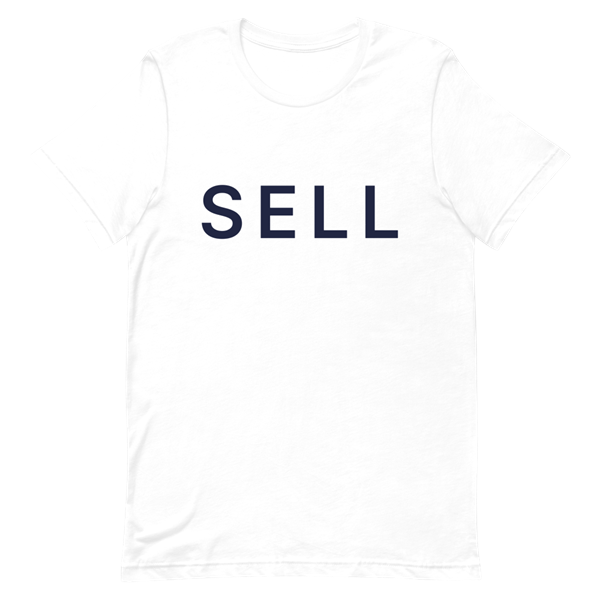
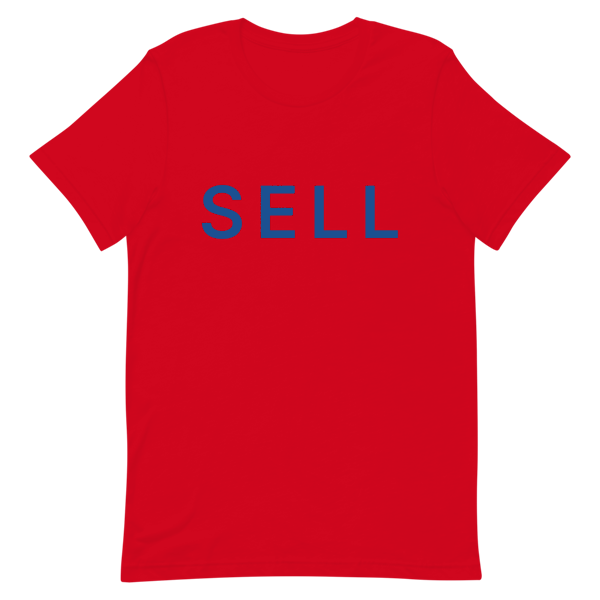
Set New England shirt colors

diff --git a/components/ProductPage.tsx b/components/ProductPage.tsx
@@ -111,7 +111,7 @@ export default function ProductPage({ slug, style }: { slug: string; style: Styl
               <summary>Why SELL</summary>
               <div className="content">
                 Modeled on the shirt Oakland fans wore to the 2023 reverse boycott.{" "}
-                {WHY[style] ?? (team.alternateOf ? `One word in ${printColor} on ${colorLabel(team, style)}.` : team.slug === "nfl-buffalo" && style === "tee" ? "One word in red on royal blue." : team.slug === "nfl-miami" && style === "tee" ? "One word in orange on aqua." : (team.slug === "nfl-cincinnati" || team.slug === "nfl-pittsburgh") && style === "tee" ? "One word in black on your team color." : team.slug === "nfl-cleveland" && style === "tee" ? "One word in orange on Browns brown." : team.slug === "nfl-baltimore" && style === "tee" ? "One word in metallic gold on Ravens purple." : "One word in white on your team colors.")} It says what a lot of {team.market} fans are thinking &mdash; loud enough to be
+                {WHY[style] ?? (team.alternateOf ? `One word in ${printColor} on ${colorLabel(team, style)}.` : team.slug === "nfl-buffalo" && style === "tee" ? "One word in red on royal blue." : team.slug === "nfl-miami" && style === "tee" ? "One word in orange on aqua." : team.slug === "nfl-new-england" && style === "tee" ? "One word in bright red on Patriots navy." : (team.slug === "nfl-cincinnati" || team.slug === "nfl-pittsburgh") && style === "tee" ? "One word in black on your team color." : team.slug === "nfl-cleveland" && style === "tee" ? "One word in orange on Browns brown." : team.slug === "nfl-baltimore" && style === "tee" ? "One word in metallic gold on Ravens purple." : "One word in white on your team colors.")} It says what a lot of {team.market} fans are thinking &mdash; loud enough to be
                 seen from the owner&rsquo;s suite. <Link href="/story" style={{ textDecoration: "underline" }}>Read the story.</Link>
               </div>
             </details>

diff --git a/lib/products.ts b/lib/products.ts
@@ -81,12 +81,14 @@ export function printColorName(team: Team, style: Style): string {
     const original = getTeam(team.alternateOf);
     if (original) {
       if (team.slug === "nfl-miami-alternate-one" && style === "tee") return "Teal";
+      if (team.slug === "nfl-new-england-alternate-one" && style === "tee") return "Nautical Blue";
       return colorName(original, style);
     }
   }
   if (style === "tee") {
     if (team.slug === "nfl-buffalo") return "red";
     if (team.slug === "nfl-miami") return "orange";
+    if (team.slug === "nfl-new-england") return "bright red";
     if (team.slug === "nfl-cincinnati" || team.slug === "nfl-pittsburgh") return "black";
     if (team.slug === "nfl-cleveland") return "orange";
     if (team.slug === "nfl-baltimore") return "metallic gold";
@@ -99,11 +101,13 @@ export function printColorHex(team: Team, style: Style): string {
     const original = getTeam(team.alternateOf);
     if (original) {
       if (team.slug === "nfl-miami-alternate-one" && style === "tee") return COLORS.tee.Teal.hex;
+      if (team.slug === "nfl-new-england-alternate-one" && style === "tee") return "#1B5091";
       return colorHex(original, style);
     }
   }
   if (team.slug === "nfl-miami" && style === "tee") return "#FF6F00";
   const name = printColorName(team, style);
+  if (name === "bright red") return "#FF0000";
   if (name === "red") return "#d0071e";
   if (name === "orange") return "#FF3C00";
   if (name === "black") return "#000000";

diff --git a/lib/teams.ts b/lib/teams.ts
@@ -195,13 +195,14 @@ const BASE_TEAMS: Team[] = ROWS.map(([slug, division, market, nickname, city, sh
 
 // Alternate One reverses the blank and ink colors of each NFL original.
 // Most originals use white ink; the AFC North originals retain their chosen
-// black, orange, and metallic-gold print colors.
+// black, orange, and metallic-gold print colors. New England uses Nautical Blue.
 const ALTERNATE_TEE_BLANK: Record<string, string> = {
   "nfl-baltimore": "Gold",
   "nfl-buffalo": "Red",
   "nfl-cincinnati": "Black",
   "nfl-cleveland": "Orange",
   "nfl-miami": "Orange",
+  "nfl-new-england": "Red",
   "nfl-pittsburgh": "Black",
 };
 

diff --git a/lib/art.ts b/lib/art.ts
@@ -1,4 +1,4 @@
 // Bump when the shirt artwork or photos change: Printful caches print files by
 // URL and next/image caches optimized photos by URL, so a new number makes
 // both fetch fresh copies.
-export const ART_VERSION = 23;
+export const ART_VERSION = 24;
